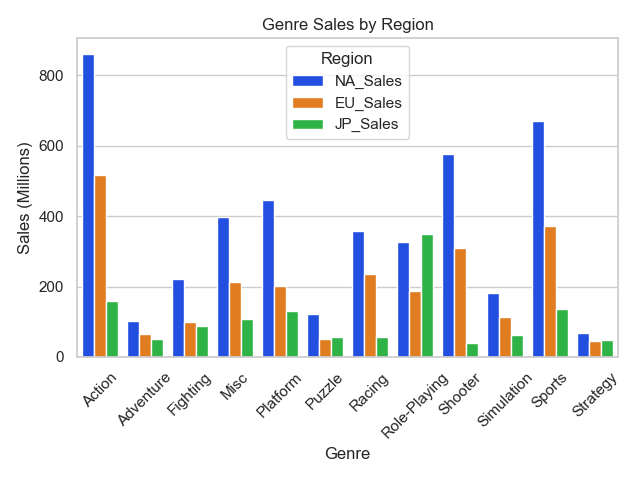
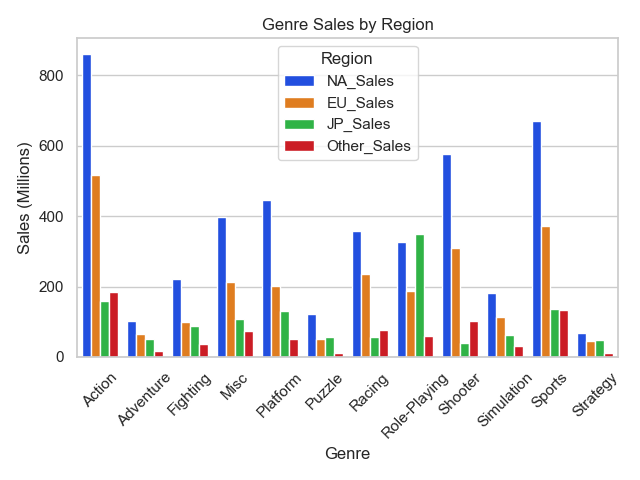
Added README and updated genre_by_region graph

Changed region(s): [[0.125, 0.125, 0.9688, 0.75], [0.4375, 0.1562, 0.6562, 0.3438], [0.625, 0.0938, 0.6562, 0.125]]

diff --git a/program.py b/program.py
@@ -52,11 +52,11 @@ plt.title("Market Share of Top 10 Platforms")
 plt.tight_layout()
 plt.savefig("platform_market_share.png")
 plt.show()
-exit()
-# --- GRAPH 4: Genre Sales by Region (NA, EU, JP) ---
-region_genre = df.groupby('Genre')[['NA_Sales', 'EU_Sales', 'JP_Sales']].sum().reset_index()
 
-region_genre_long = region_genre.melt( id_vars='Genre', value_vars=['NA_Sales', 'EU_Sales', 'JP_Sales'], var_name='Region', value_name='Sales')
+# --- GRAPH 4: Genre Sales by Region (NA, EU, JP) ---
+region_genre = df.groupby('Genre')[['NA_Sales', 'EU_Sales', 'JP_Sales', 'Other_Sales']].sum().reset_index()
+
+region_genre_long = region_genre.melt( id_vars='Genre', value_vars=['NA_Sales', 'EU_Sales', 'JP_Sales', 'Other_Sales'], var_name='Region', value_name='Sales')
 
 
 sns.barplot(data=region_genre_long, x='Genre', y='Sales', hue='Region', palette='bright')
@@ -67,7 +67,7 @@ plt.xticks(rotation=45)
 plt.tight_layout()
 plt.savefig("genre_by_region.png")
 plt.show()
-
+exit()
 # ---------------------------------------------------------
 #                        ADAM'S GRAPHS
 # ---------------------------------------------------------
